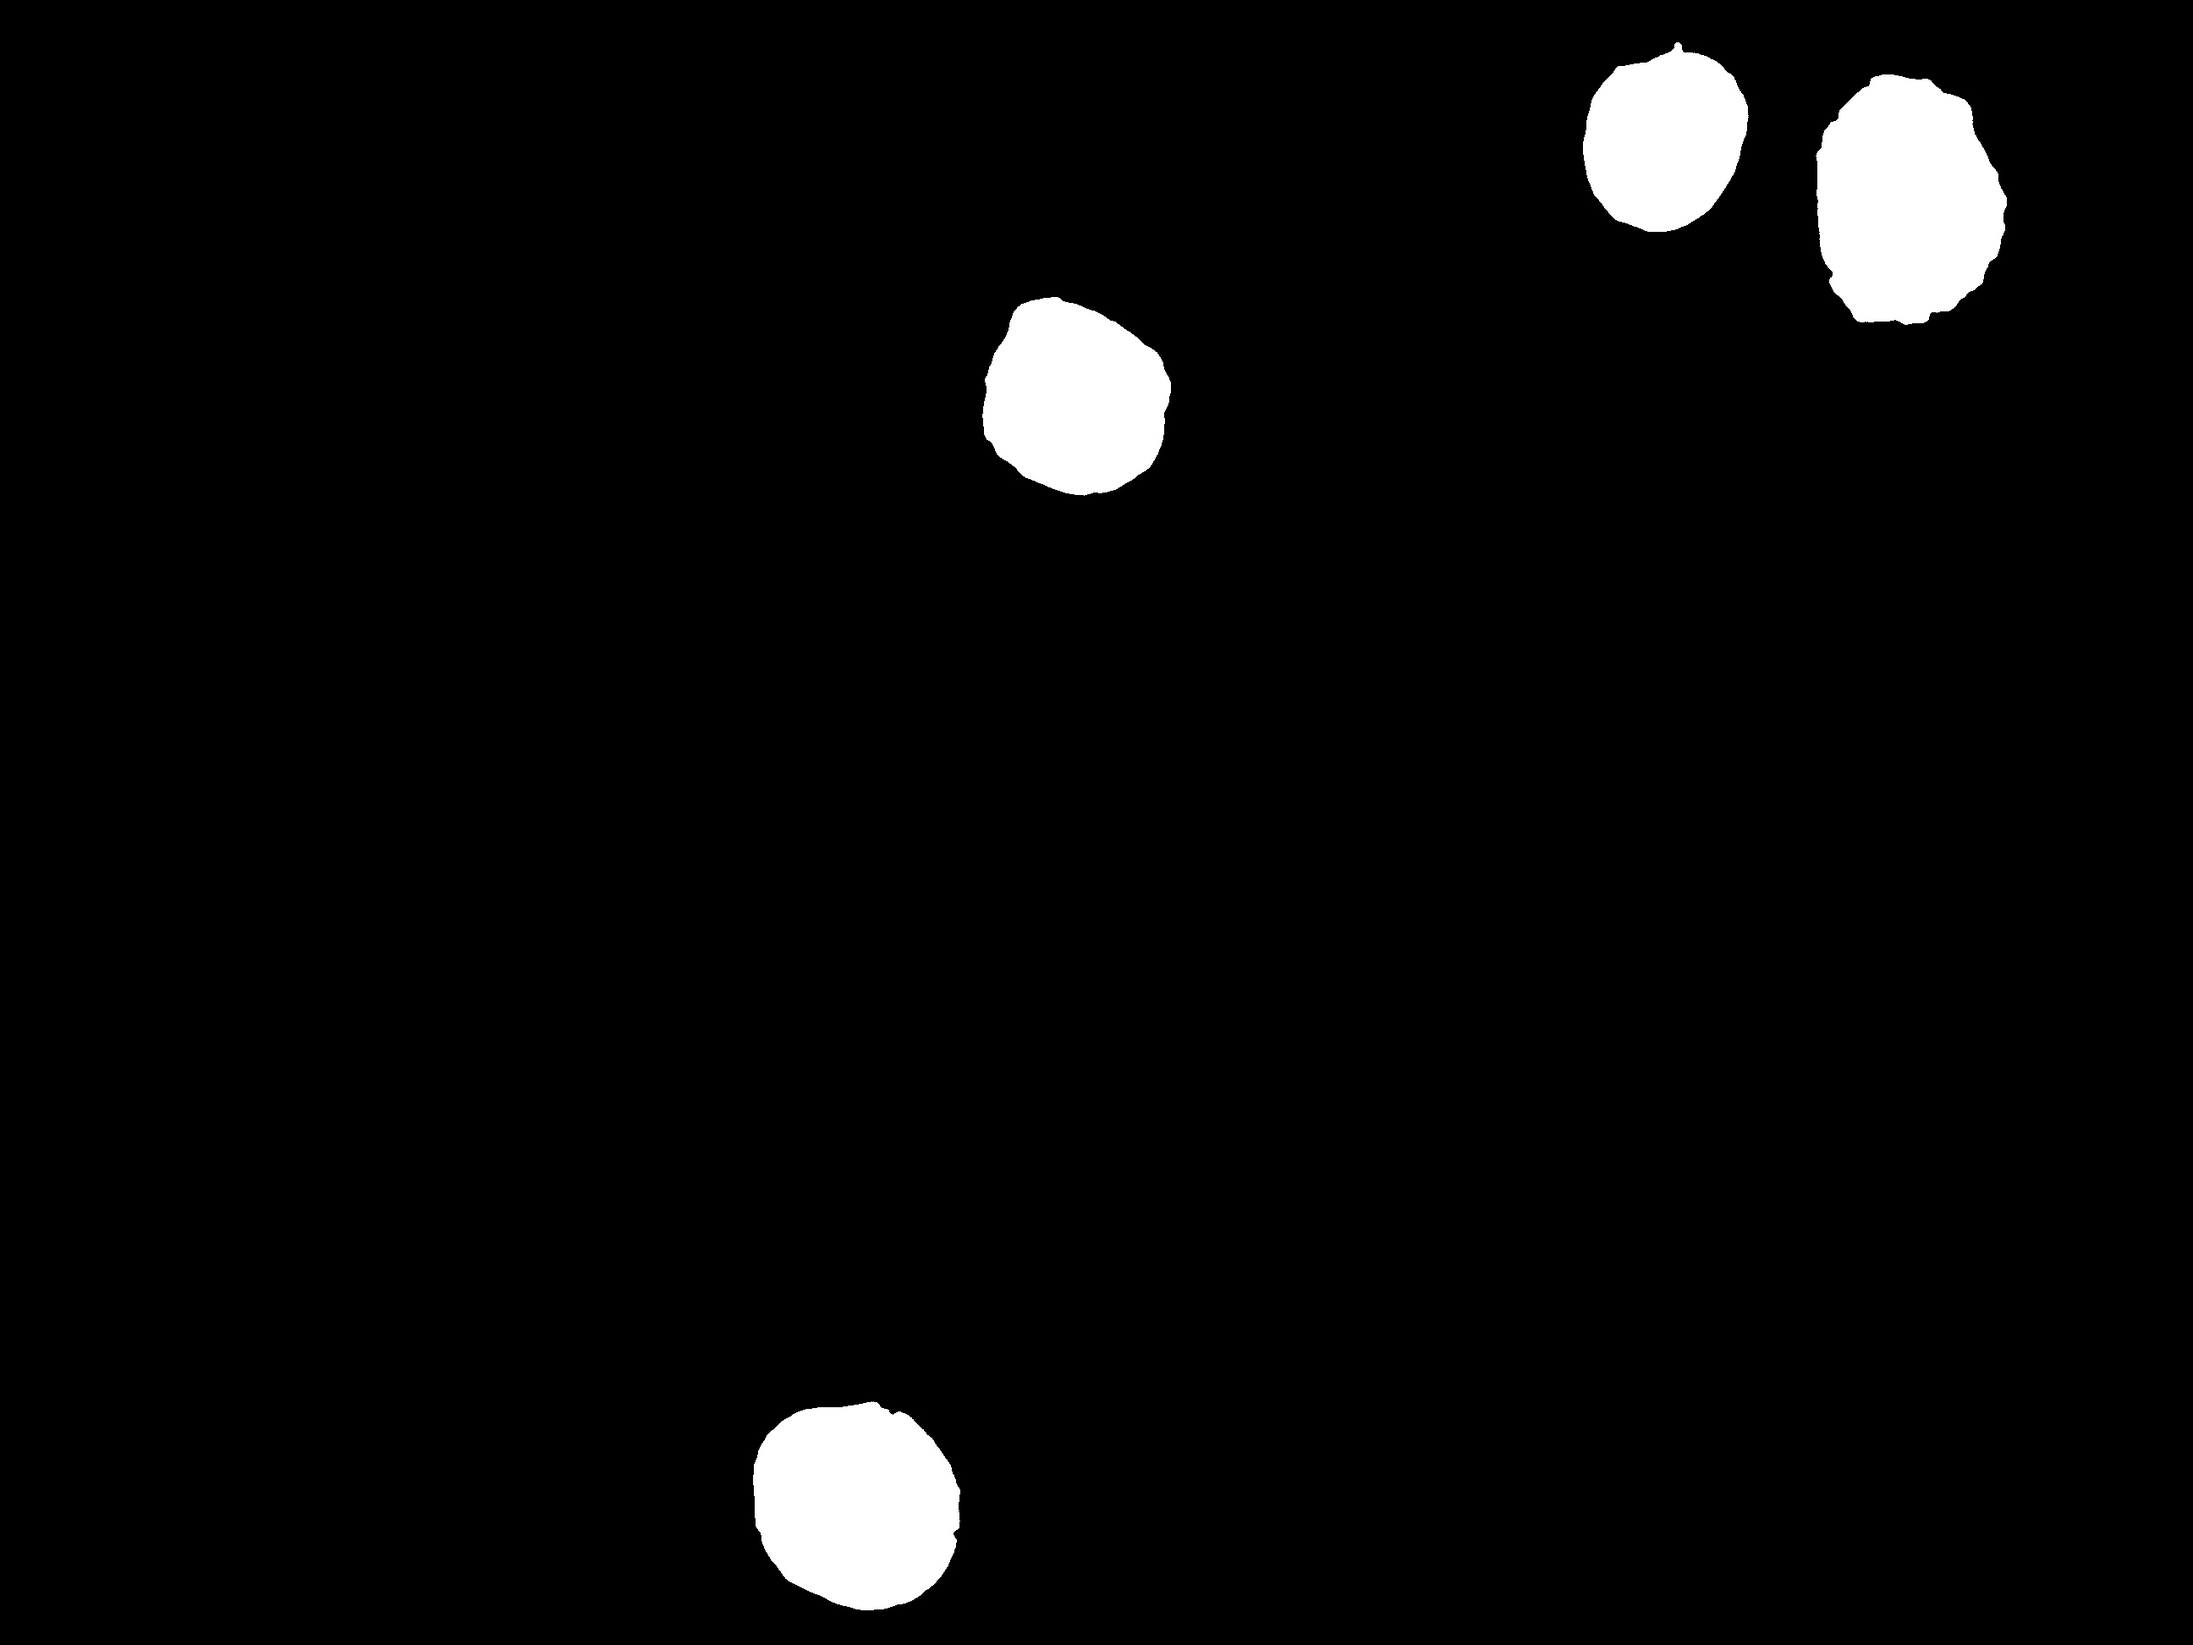
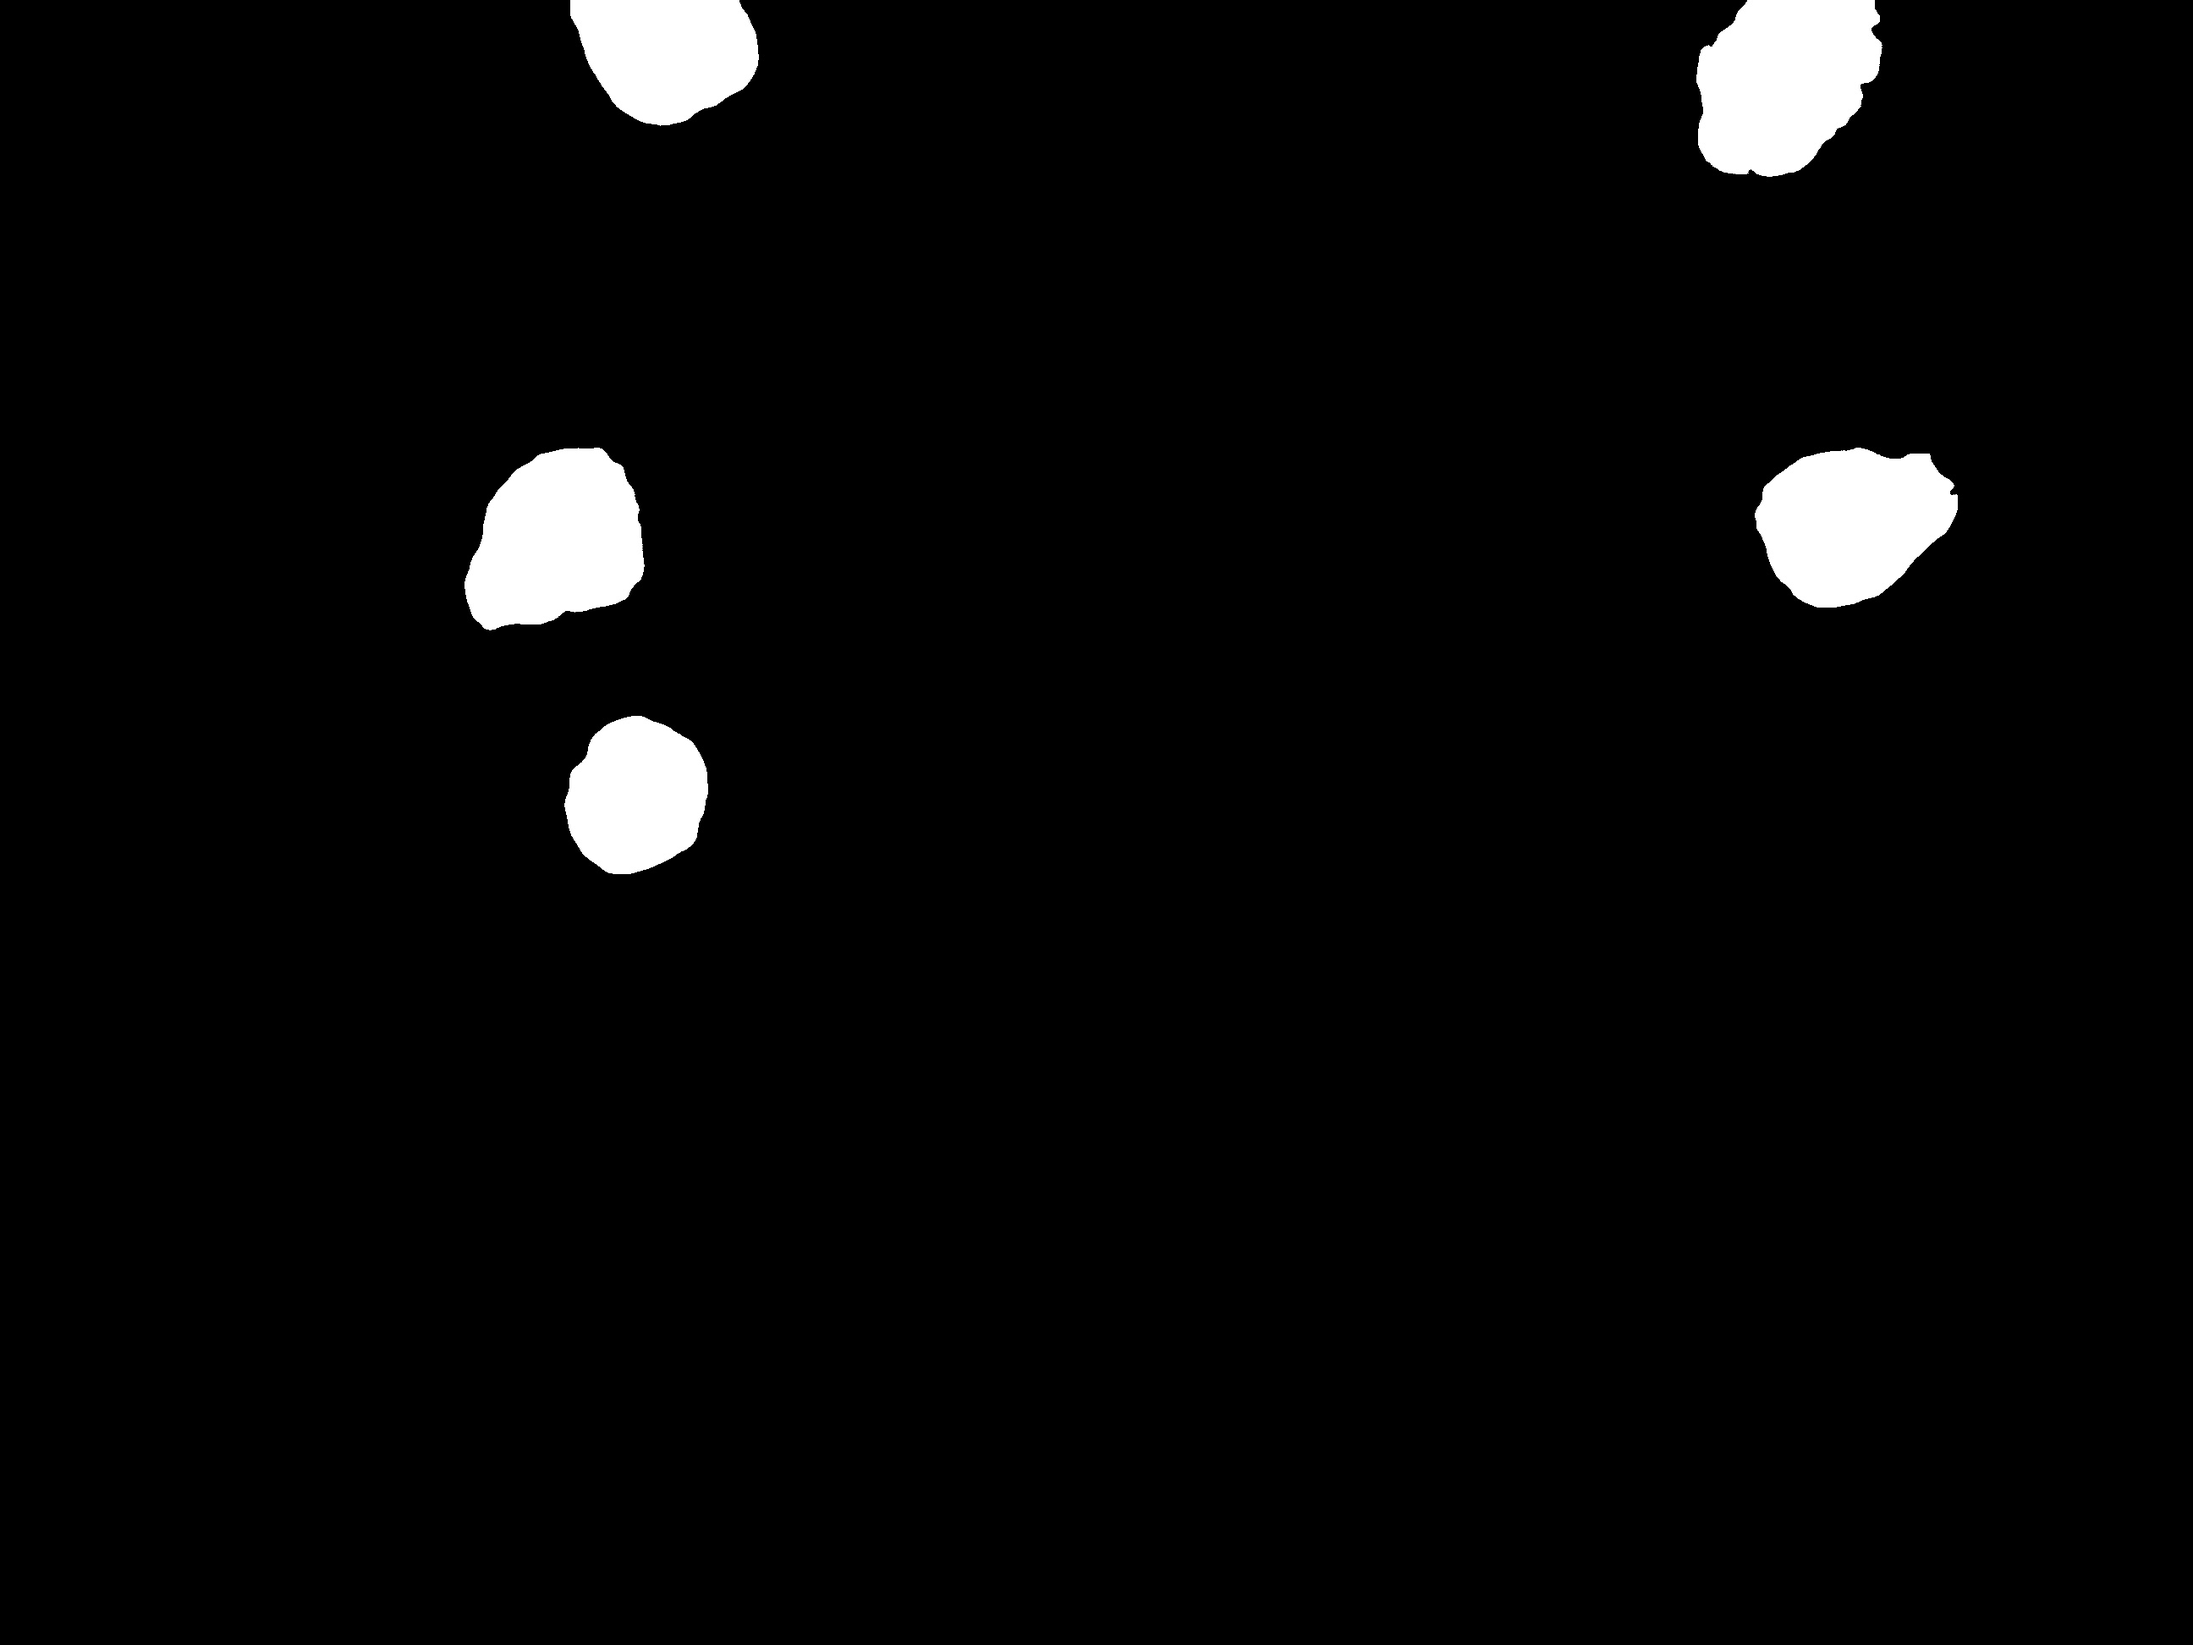
Corner or incomplete macrophag bug were fixed

diff --git a/MacrophagesIdentification.py b/MacrophagesIdentification.py
@@ -3,6 +3,20 @@ import cvzone
 import numpy as np
 from cvzone.ColorModule import ColorFinder
 
+#Calculate the distance between two given points
+def distanceCalculate(p1, p2):
+    #p1 and p2 in format (x1,y1) and (x2,y2) tuples
+    dis = ((p2[0] - p1[0]) ** 2 + (p2[1] - p1[1]) ** 2) ** 0.5
+    return dis
+
+#Calculate de Center of a contour polygon
+def polygonCenter (contour):
+    peri = cv2.arcLength(contour, True)
+    approx = cv2.approxPolyDP(contour, 0.02 * peri, True)
+    x, y, w, h = cv2.boundingRect(approx)
+    cx, cy = x + (w // 2), y + (h // 2)
+    return cx, cy
+
 #Pre Process Method
 def coreIdentification(img):
     myColorFinder = ColorFinder(False)
@@ -22,8 +36,6 @@ def coreIdentification(img):
 
     #Checking if the contoures detected are actual cores
     mask2 = np.zeros((1944,2592 , 1), dtype = np.uint8)
-    #just for testing the funtion and its parameters
-    testImage = cv2.imread('MacropMask.jpg',0)
     cores = cv2.HoughCircles(mask, cv2.HOUGH_GRADIENT, 1, 160, param1=50, param2=5, minRadius=110, maxRadius=120)
     circlesTest = img.copy()
     cores = np.uint16(np.around(cores))
@@ -40,20 +52,17 @@ def coreIdentification(img):
             if 1 ==  cv2.pointPolygonTest(cnt,(x,y),False):
                 cv2.drawContours(mask2,contours,i,color=(255,255,255),thickness=cv2.FILLED)
     
-    #Update found cores
-    cores = cv2.HoughCircles(mask2, cv2.HOUGH_GRADIENT, 1, 160, param1=50, param2=5, minRadius=110, maxRadius=120)
-    circlesTest = img.copy()
-    cores = np.uint16(np.around(cores))
+    #Update found cores contours
+    contours, hierarchy1 = cv2.findContours(mask2, cv2.RETR_EXTERNAL, cv2.CHAIN_APPROX_NONE)
 
     #Writing the image files
     cv2.imwrite('MaskTest.jpg',mask2)
     cv2.imwrite('CoreMask.jpg',mask)
     cv2.imwrite('CoreColored.jpg',imgColor)
 
-    return mask2, imgColor, cores
+    return mask2, imgColor, contours
 
 #Cytoplasm Identification
-
 def cytoplasmIdentification (img, coreMask, coreImgColor, cores):
     myColorFinder = ColorFinder(False)
     # Custom Color
@@ -76,7 +85,6 @@ def cytoplasmIdentification (img, coreMask, coreImgColor, cores):
     diff2 = cv2.subtract(mask, coreMask)
     kernel = np.ones((5,5),np.uint8)
     diff2 = cv2.erode(diff2,kernel,iterations=1)
-    cv2.imwrite('CytoCore.jpg',diff2)
 
     contours, hierarchy = cv2.findContours(diff2, cv2.RETR_EXTERNAL, cv2.CHAIN_APPROX_NONE)
     cv2.drawContours(diff2,contours, -1, color=(255,255,255),thickness=cv2.FILLED)
@@ -88,16 +96,26 @@ def cytoplasmIdentification (img, coreMask, coreImgColor, cores):
         if area < minArea:
             cv2.drawContours(diff2,contours,i,color=(0,0,0),thickness=cv2.FILLED)
 
+    kernel = np.ones((5,5),np.uint8)
+    diff2 = cv2.dilate(diff2,kernel,iterations=1)
+    contours, hierarchy = cv2.findContours(diff2, cv2.RETR_EXTERNAL, cv2.CHAIN_APPROX_NONE)
+    cv2.imwrite('CytoCore.jpg',diff2)
+    
     #Blank mask
     mask2 = np.zeros((1944,2592 , 1), dtype = np.uint8)
     #Checking if the cytoplasm detected are atatch to a sutable core
     contours, hierarchy = cv2.findContours(diff2, cv2.RETR_EXTERNAL, cv2.CHAIN_APPROX_NONE)
+
     #Getting rid of not false macrophages identified
-    for (x,y,r ) in cores[0,:]:
-        for i in range(len(contours)):
-            cnt = contours[i]
-            if 1 ==  cv2.pointPolygonTest(cnt,(x,y),False):
-                cv2.drawContours(mask2,contours,i,color=(255,255,255),thickness=cv2.FILLED)
+    for i in range(len(cores)):
+        #Cores center
+        cx, cy = polygonCenter(cores[i])
+        for j in range(len(contours)):
+            #Cytoplasm center
+            x, y = polygonCenter(contours[j])
+            if 200 > distanceCalculate((x,y),(cx,cy)):
+                cv2.drawContours(mask2,contours,j,color=(255,255,255),thickness=cv2.FILLED)
+                cv2.drawContours(mask2,cores,i,color=(255,255,255),thickness=cv2.FILLED)
 
     cv2.imwrite('MacropMask.jpg',mask2)
 
@@ -172,7 +190,7 @@ def SorensenDiceCoeff (labeled, mask):
     return coeff
 
 #Reading the Image from the local storage
-img = cv2.imread('L24_M1_C1.png',1)
+img = cv2.imread('L3_M2_C12.png',1)
 
 #Preprocess Image - Core Identification (Part 1)
 coreMask, coreImgColor , cores = coreIdentification(img)
